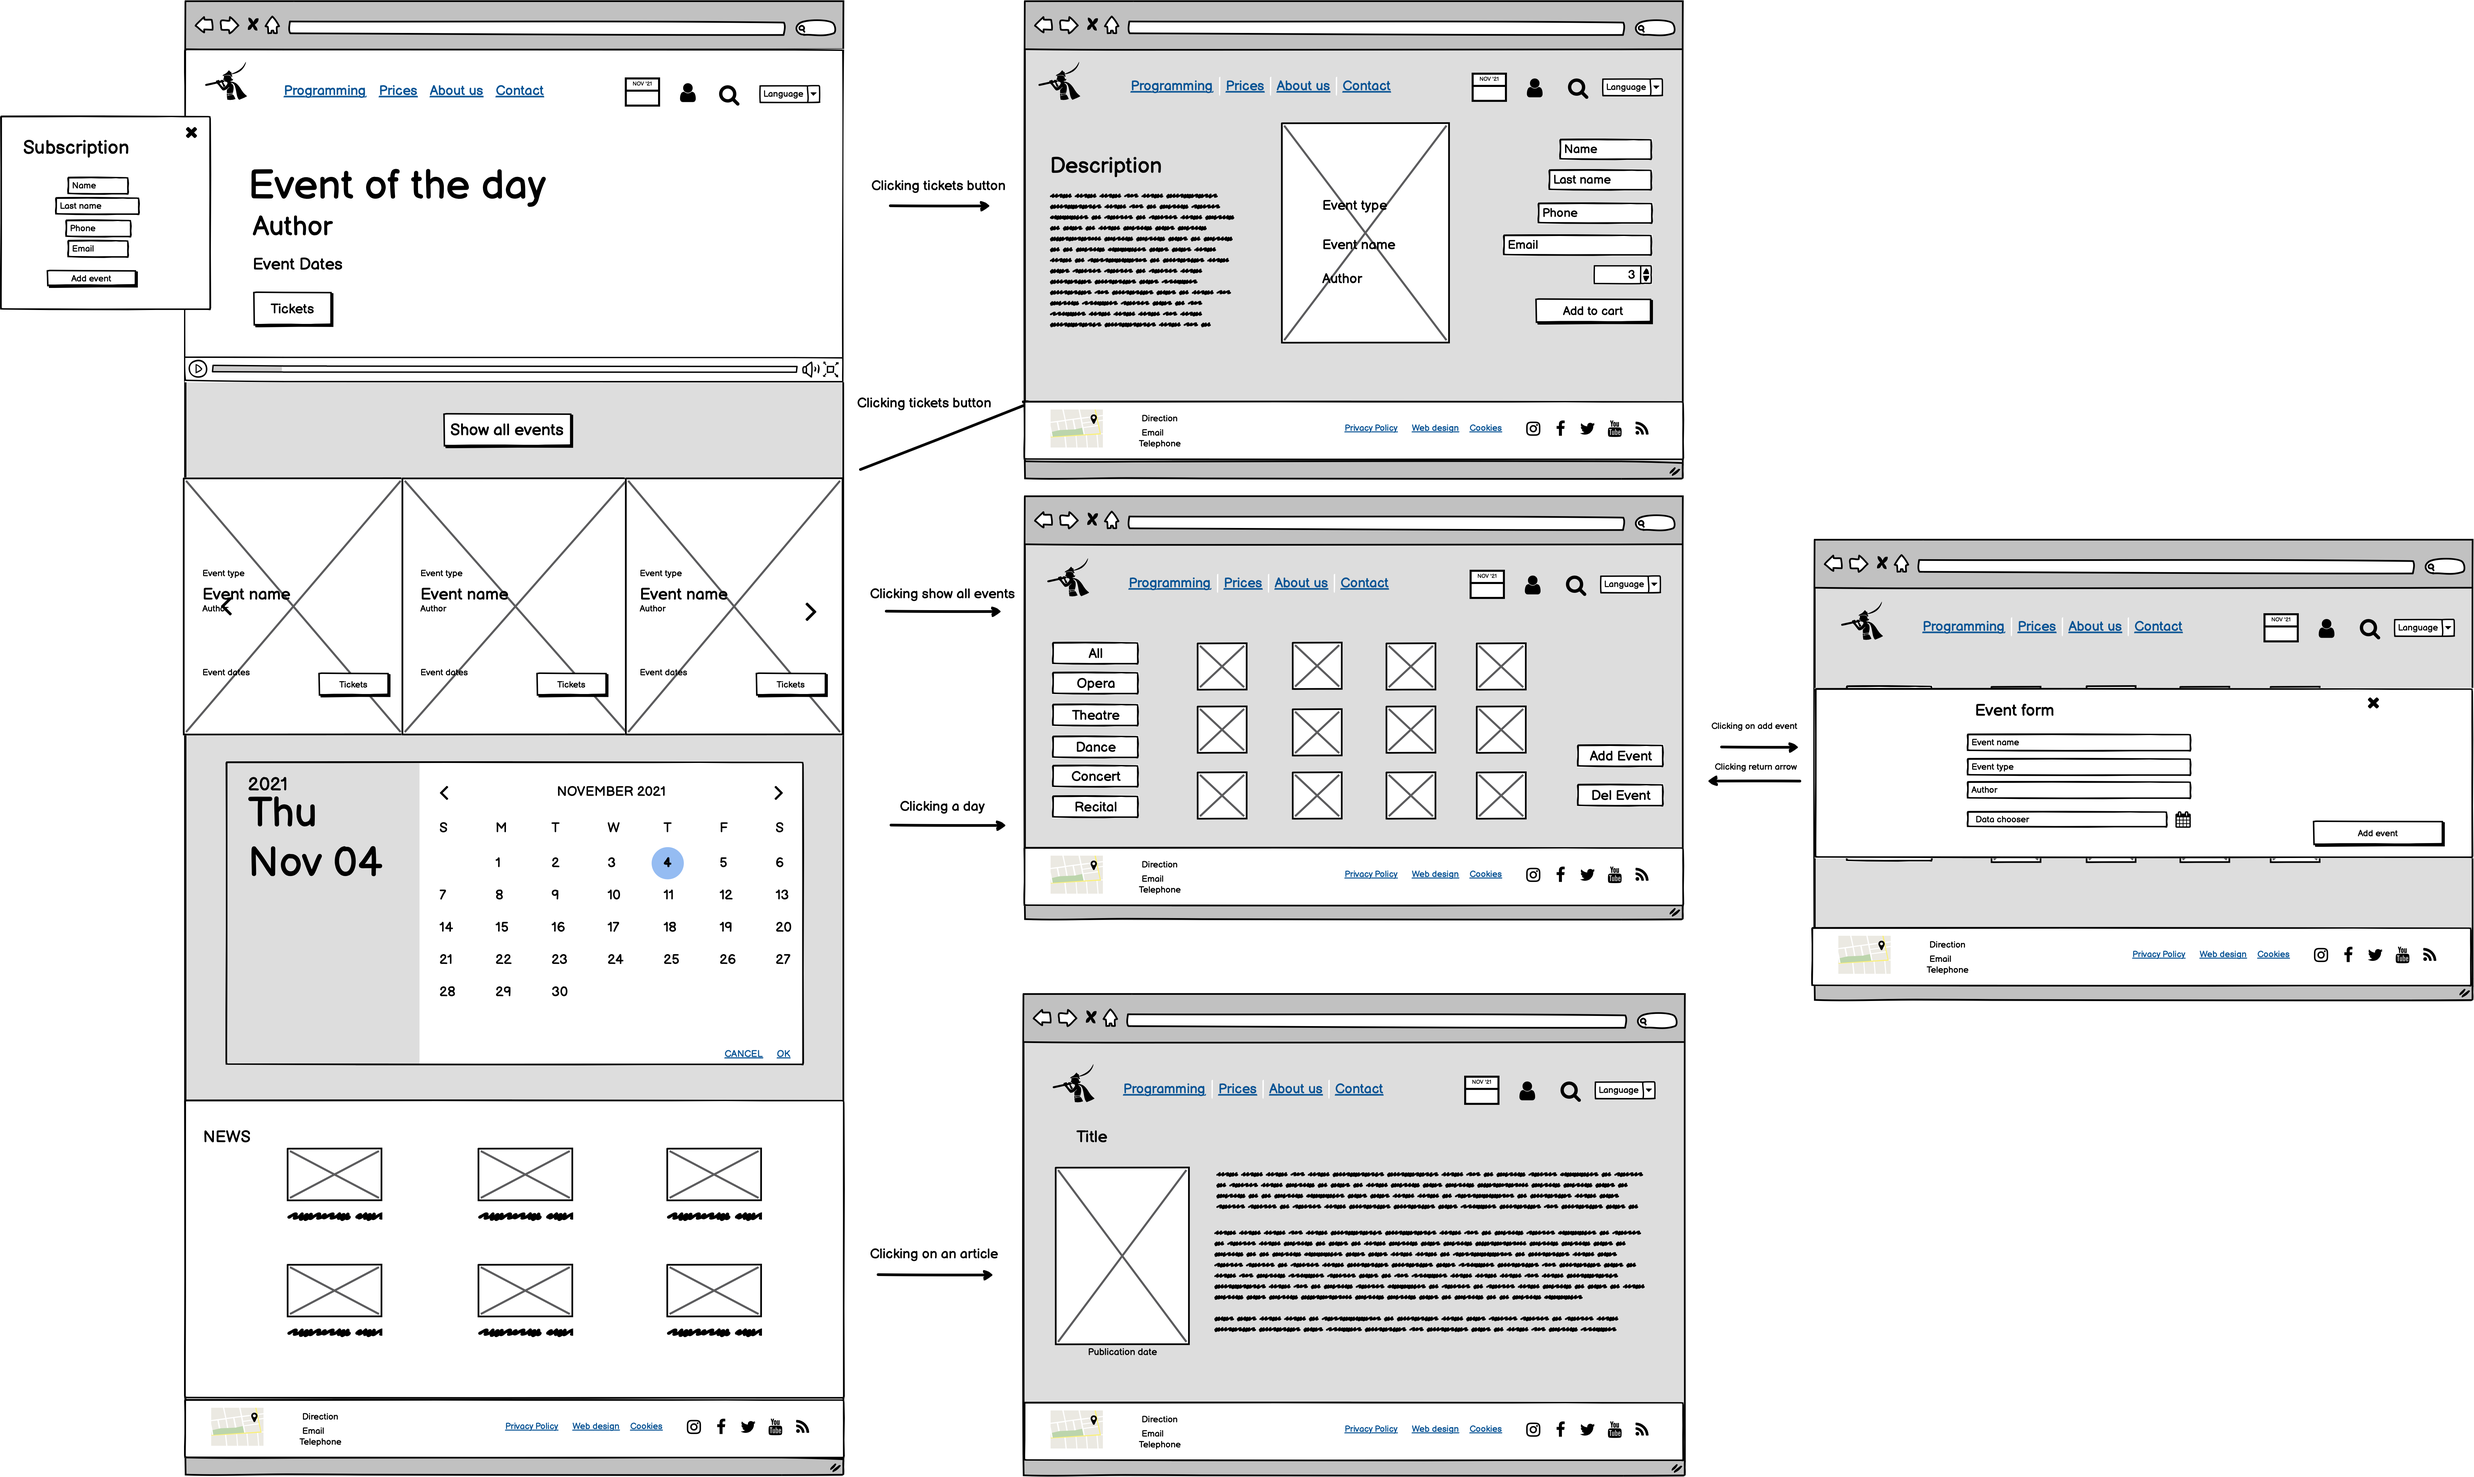
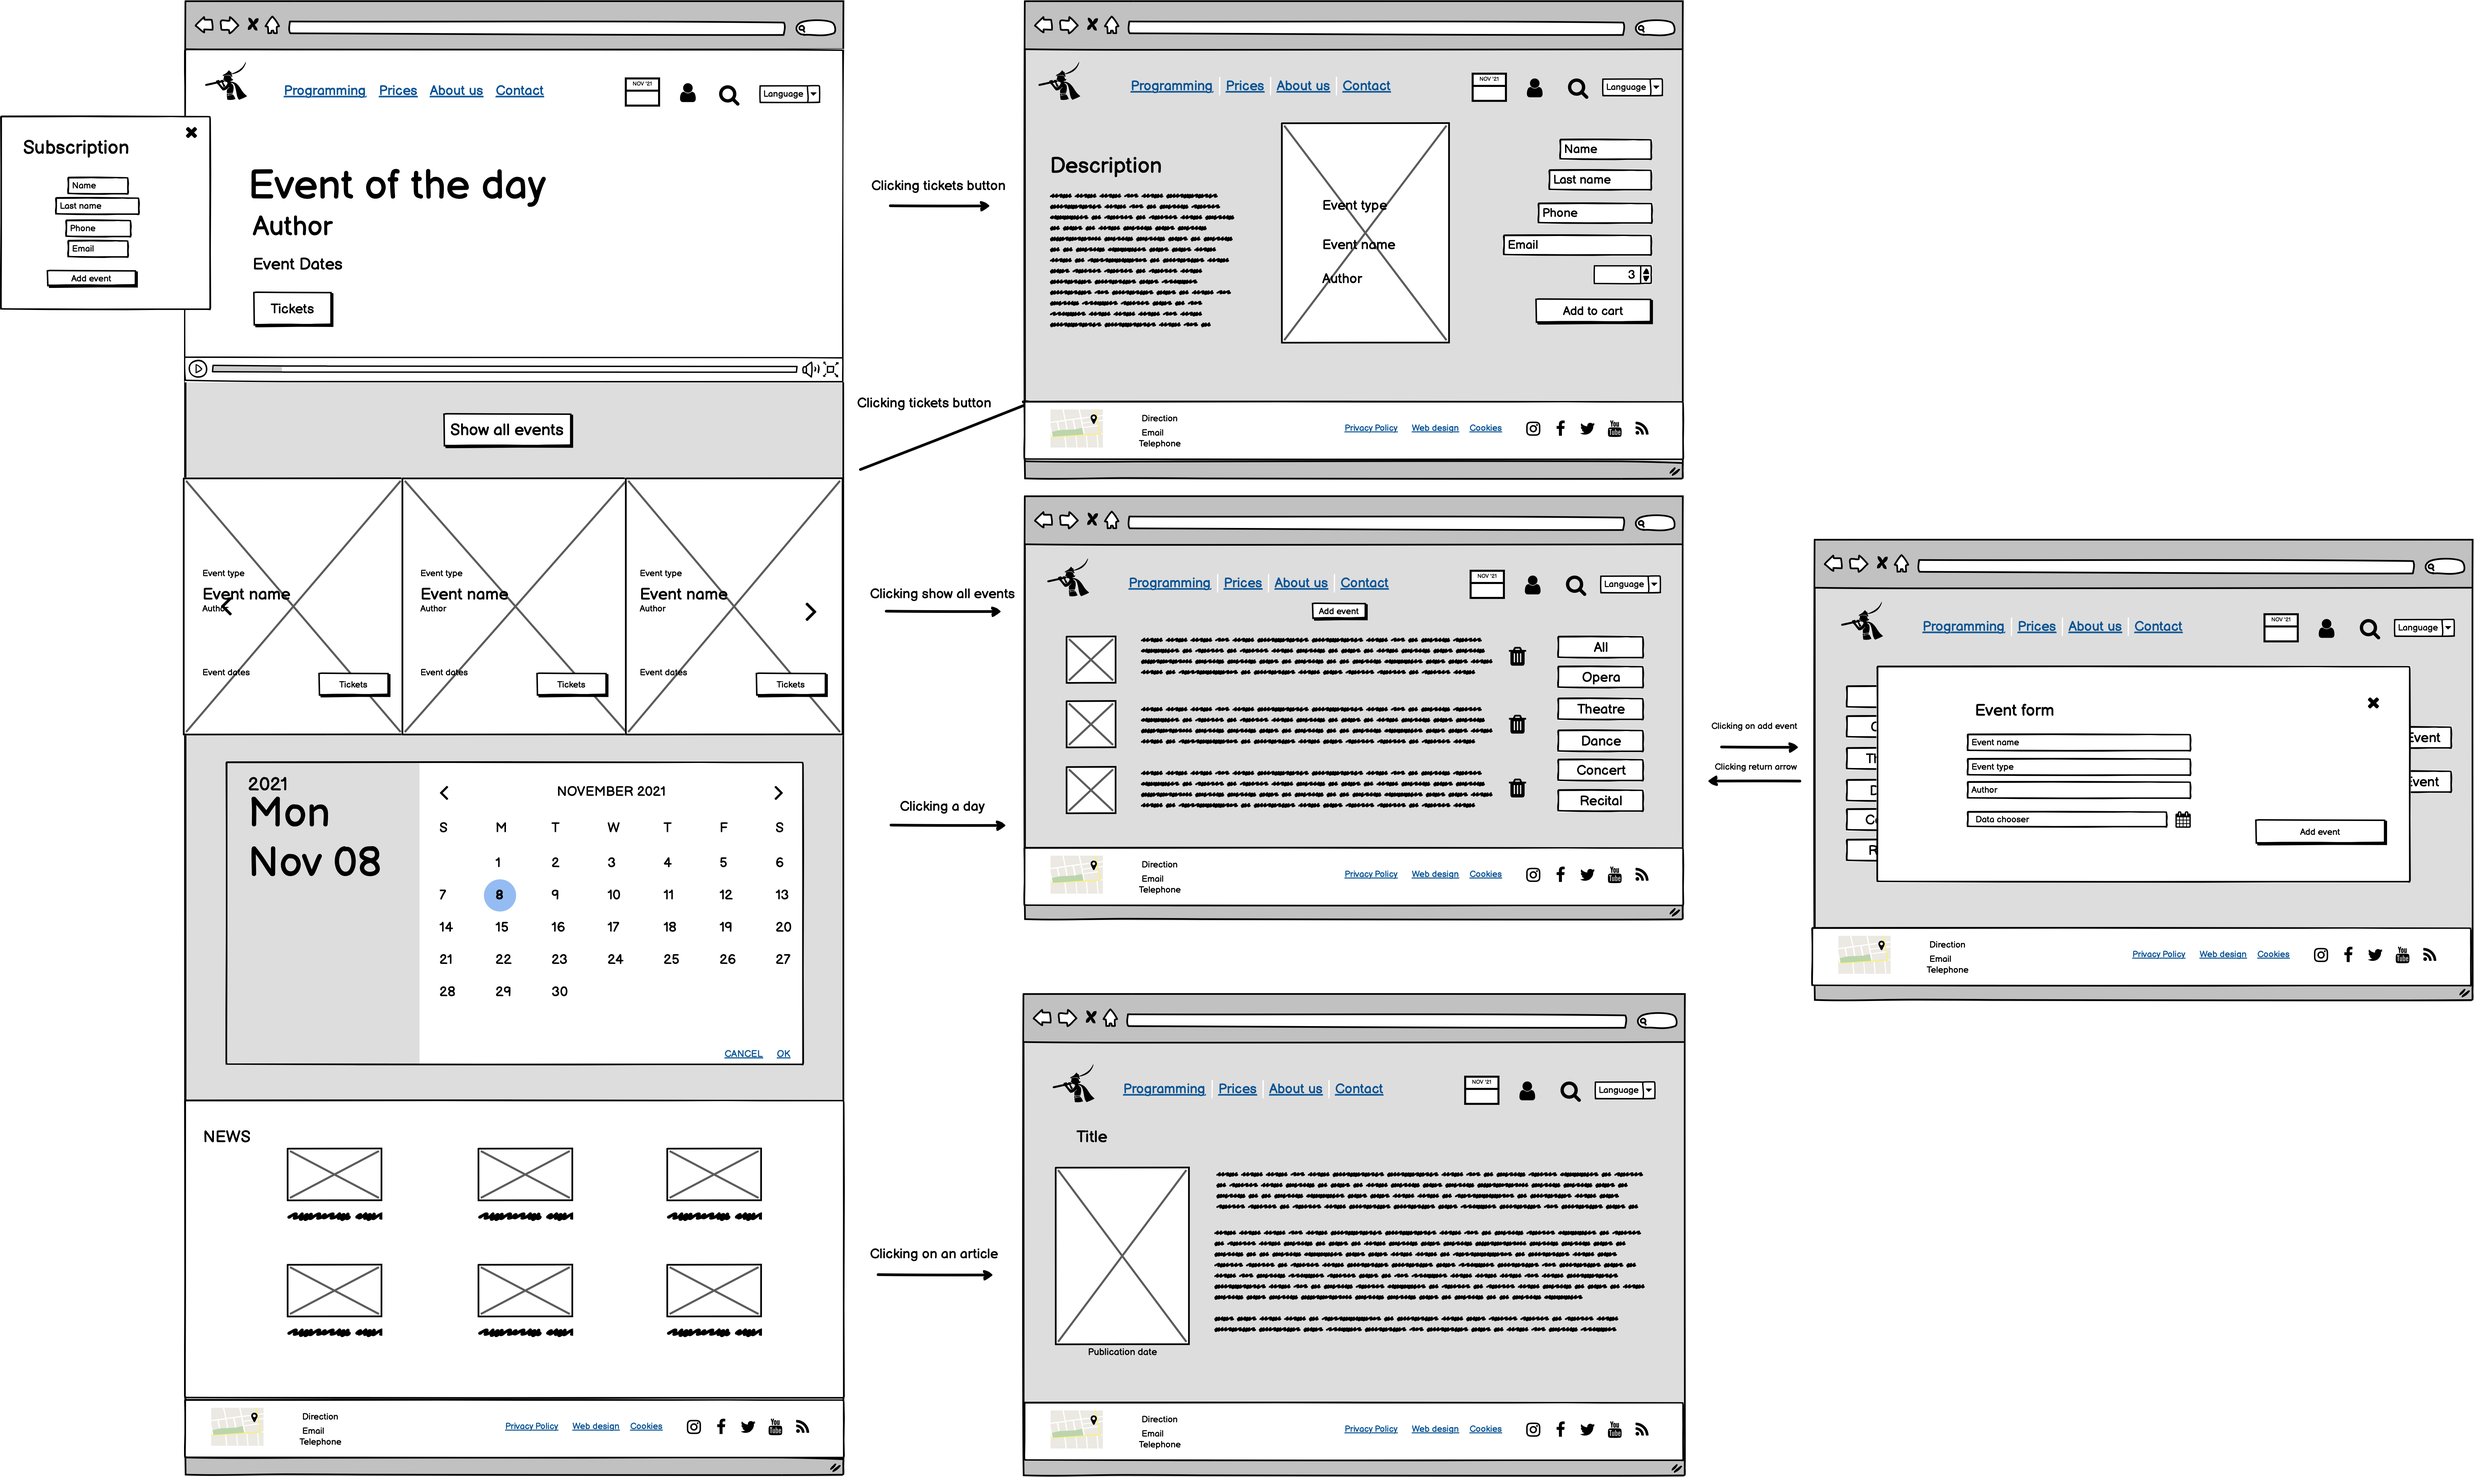
Add all-events page

diff --git a/src/css/allevents.css b/src/css/allevents.css
@@ -1,0 +1,86 @@
+:root {
+  --first-main-color: #621304;
+  --second-main-color: #e18b7a;
+  --light-text: #ffffff;
+  --light-shadow: #ececec;
+  --dark-shadow: #5c5c5c;
+
+  --border: #d3d3d3;
+}
+
+body {
+  margin: 0;
+}
+
+.main-container {
+  display: flex;
+  flex-flow: wrap column;
+  justify-content: center;
+}
+
+.add-event-btn {
+  background-color: var(--first-main-color);
+  color: var(--light-shadow);
+  text-transform: uppercase;
+  text-align: center;
+  border: 0;
+  border-radius: 0.3rem;
+  margin-top: 1rem;
+  width: 8rem;
+  padding-top: 1rem;
+  padding-bottom: 1rem;
+  align-self: center;
+}
+
+.allevents-container {
+  width: 100vw;
+
+  display: flex;
+  flex-flow: wrap column;
+  justify-content: space-between;
+}
+
+.single-event-container {
+  width: 100%;
+  height: 7rem;
+
+  display: grid;
+  grid-template-areas:
+    'img title trash'
+    'img description trash';
+  grid-template-rows: repeat(7, 1rem);
+  grid-template-columns: 30% 60% 5%;
+  column-gap: 2%;
+}
+
+.single-event-container > img {
+  width: 100%;
+  border-radius: 5px;
+
+  grid-area: img;
+  grid-column-start: 1;
+  grid-row-start: 2;
+}
+
+.single-event-container > h2 {
+  grid-area: title;
+  grid-row-start: 2;
+
+  margin: 0;
+  font-size: 1rem;
+}
+
+.trash-container {
+  text-align: center;
+
+  grid-area: trash;
+  grid-row: 4;
+}
+
+.single-event-container p {
+  grid-area: description;
+  grid-row: 5;
+
+  margin: 0;
+  overflow: hidden;
+}

diff --git a/allevents.html b/allevents.html
@@ -13,6 +13,7 @@
 
   <!-- STYLES -->
   <link rel="stylesheet" href="src/css/headerAndFooter.css" />
+  <link rel="stylesheet" href="src/css/allevents.css" />
 
   <!-- JS -->
   <script defer type="module" src="src/js/script.js"></script>
@@ -21,13 +22,19 @@
 <body>
   <div class="body-container">
     <header class="header">
-      <a href="index.html"><img class="logo" src="src/images/logo.png" alt="logo"></img></a>
+      <a href="index.html"><img class="logo" src="src/images/logo2.png" alt="logo"></img></a>
       <!--font crimson text-->
       <input type="search" name="q" id="search" placeholder="Search events" class="search">
       <i class="fas fa-bars"></i>
     </header>
-    <main>
+
+    <main class="main-container">
+      <!-- <div class="filter-container"></div> -->
+      <button class="add-event-btn">Add event</button>
+      <section class="allevents-container">
+      </section>
     </main>
+
     <footer class="footer">
       <img src="src/images/map.png" alt="map" class="map">
       <div class="contact">

diff --git a/src/js/script.js b/src/js/script.js
@@ -2,6 +2,7 @@ import * as data from './data.js';
 import * as dayEvents from './landingPage/dayEvents.js';
 import * as weekEvents from './landingPage/weekEvents.js';
 import * as event from './event.js';
+import * as allevents from './allevents.js';
 
 // Render the first section: events of the day
 dayEvents.render(dayEvents.generateVideoMarkup(data.theaterData.events));
@@ -14,3 +15,8 @@ weekEvents.render(weekEvents.generateInfoMarkup(data.theaterData.events));
 // Render the event when a tickets button is clicked
 // event.ticketsBtnHandler();
 event.render(event.generateEventMarkup(data.theaterData.events));
+
+// Render all events into all-events page
+data.theaterData.events.forEach(event =>
+  allevents.render(allevents.generateEventsMarkup(event))
+);

diff --git a/src/css/headerAndFooter.css b/src/css/headerAndFooter.css
@@ -21,12 +21,10 @@ header {
   height: 10vh;
 }
 
-/* TODO: El logo no se ve si hay fondo negro. Tenemos que hacerle un sombreado o meterlo dentro de un círculo blanco (por ejemplo) */
 .logo {
   width: 3rem;
 }
 
-/* TODO: La propiedad border no se aplica*/
 .search {
   border: 1px solid var(--border);
   border-radius: 1rem;
@@ -40,10 +38,9 @@ header {
   box-shadow: 1px 1px 3px 2px var(--light-shadow);
 }
 
-/* TODO: El icono no se ve si el fondo es oscuro. Habrá que añadir un sombreado (por ejemplo) */
 .fa-bars {
   font-size: 2rem;
-  color: var(--light-text);
+  color: var(--first-main-color);
 }
 
 footer {

diff --git a/src/js/allevents.js b/src/js/allevents.js
@@ -1,0 +1,17 @@
+const eventsContainer = document.querySelector('.allevents-container');
+
+export const generateEventsMarkup = function (event) {
+  return `
+    <div class="single-event-container">
+      <img src="${event.imgURL}" alt="${event.title}">
+      <h2>${event.title}</h2>
+      <p>${event.description}</p>
+      <div class="trash-container">
+        <i class="fas fa-trash-alt"></i>
+      </div>
+    </div>`;
+};
+
+export const render = function (markup) {
+  eventsContainer.insertAdjacentHTML('beforeend', markup);
+};

diff --git a/news.html b/news.html
@@ -19,7 +19,7 @@
 <body>
   <div class="body-container">
     <header class="header">
-      <a href="index.html"><img class="logo" src="src/images/logo.png" alt="logo"></img></a>
+      <a href="index.html"><img class="logo" src="src/images/logo2.png" alt="logo"></img></a>
       <!--font crimson text-->
       <input type="search" name="q" id="search" placeholder="Search events" class="search">
       <i class="fas fa-bars"></i>

diff --git a/event.html b/event.html
@@ -23,7 +23,7 @@
   <div class="body-container">
 
     <header class="header">
-      <a href="index.html"><img class="logo" src="src/images/logo.png" alt="logo"></img></a>
+      <a href="index.html"><img class="logo" src="src/images/logo2.png" alt="logo"></img></a>
       <input type="search" name="q" id="search" placeholder="Search events" class="search">
       <i class="fas fa-bars"></i>
     </header>

diff --git a/index.html b/index.html
@@ -28,6 +28,7 @@
         <a href="index.html"><img class="logo" src="src/images/logo2.png" alt="logo"></img></a>
         <input class="search" type="search" name="q" id="search" placeholder="Search events">
         <i class="fas fa-bars"></i>
+        <!-- <i class="fa-light fa-bars"></i> -->
       </header>
     </section>
     <!-- Second section: Events of the week -->

diff --git a/src/js/event.js b/src/js/event.js
@@ -1,8 +1,6 @@
 const eventContainer = document.querySelector('.event-container');
 const navIcon = document.querySelector('.fa-bars');
 
-navIcon.style.color = 'black';
-
 // TODO: Add more data to the description (author, dates, duration, price, ...)
 export const generateEventMarkup = function (events) {
   // const event = filterEvents(getDayTicketsBtnClass(), events);

diff --git a/src/css/event.css b/src/css/event.css
@@ -24,6 +24,7 @@ body {
     'description description';
 }
 
+/* TODO: Aumentar la altura de la imagen: hight: 100% */
 .event-img {
   width: 80%;
 
